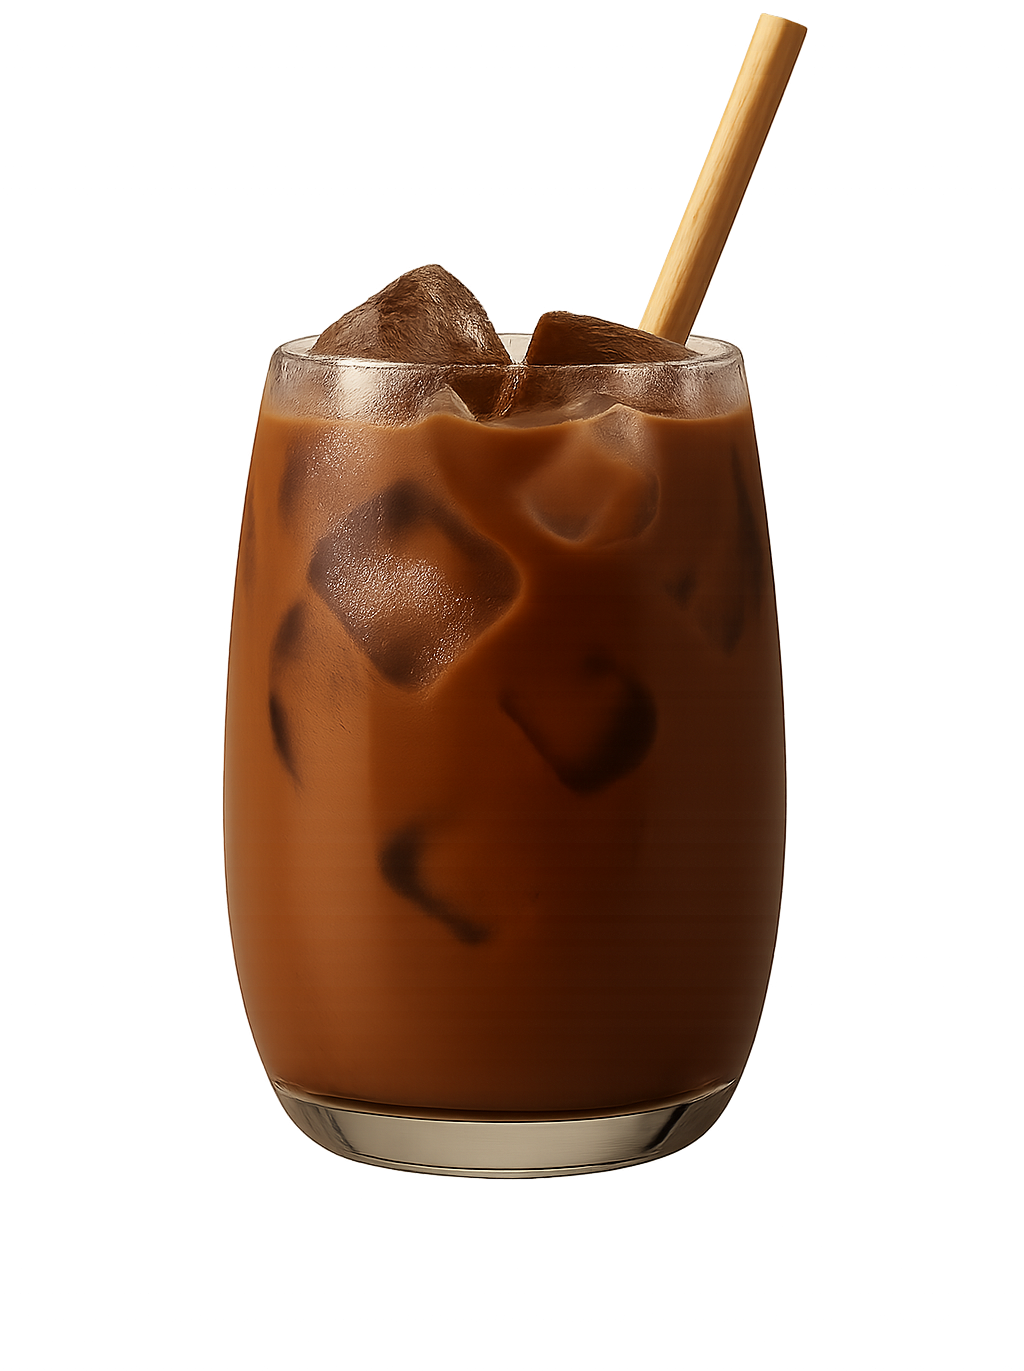
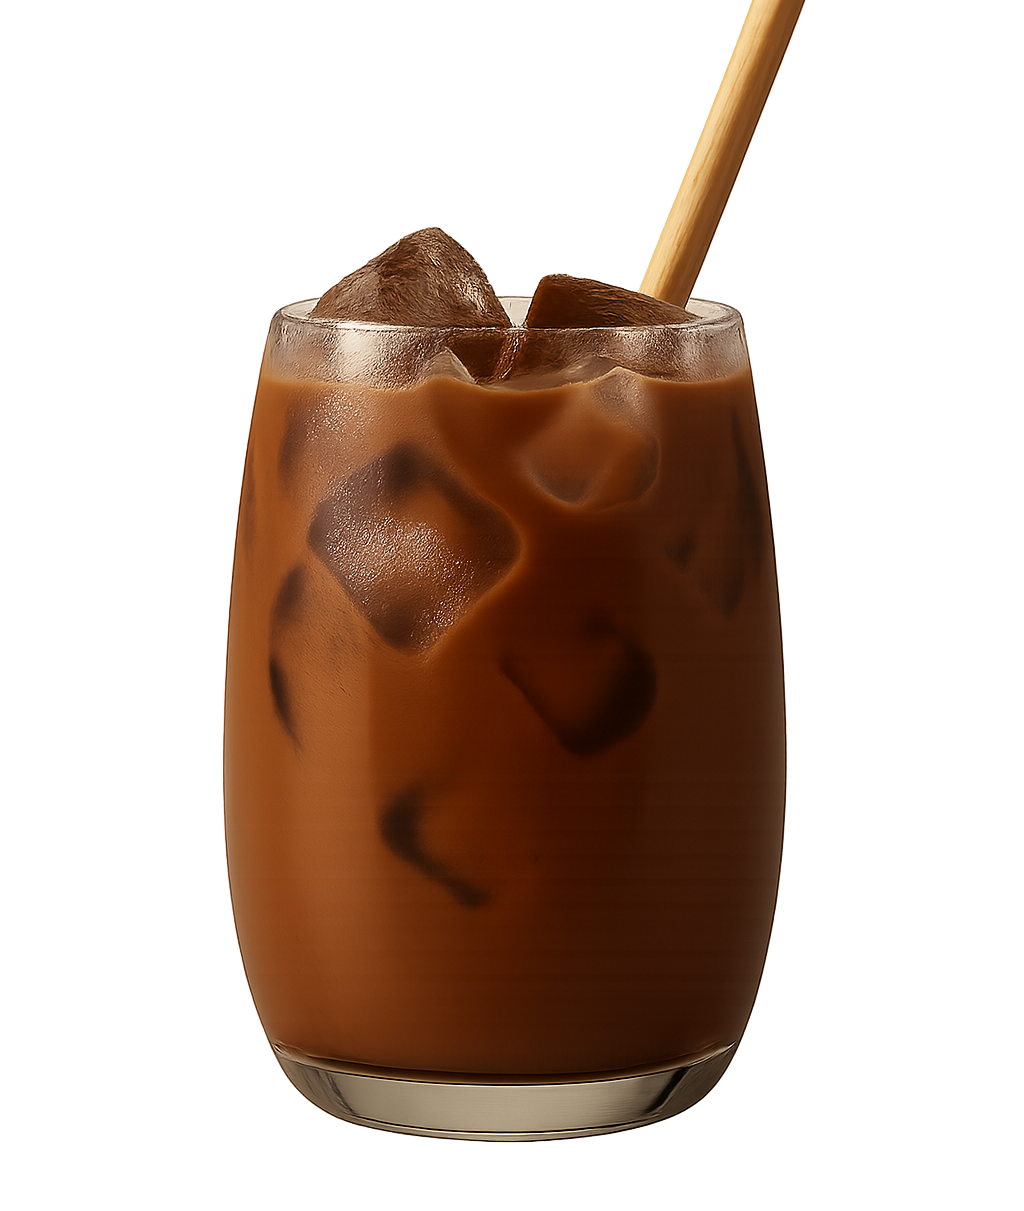
Drink Page Design 60% done

diff --git a/client/src/index.css b/client/src/index.css
@@ -5,28 +5,32 @@
     padding: 0;
     margin: 0;
     font-family: 'Inter', sans-serif;
+    overflow-x: hidden;
 }
+
+
+
+header{
+
+    width: 99vw;
+    height: 100vh;
+    overflow: hidden;
+    flex-wrap: wrap;
+    
+
+}
+
 
 video{
     position: absolute;
-    width: 100vw;
-    height: 100%;
+    width: 100%;
+    height: 100vh;
     object-fit: cover;
     flex-wrap: wrap;
     overflow: hidden;
     z-index: 1;
 
 }
-
-header{
-
-    width: 100%;
-    height: 100vh;
-    
-
-}
-
-
 
 nav{
     margin-left: auto;
@@ -62,12 +66,10 @@ a:hover{
     flex-direction: row;
     justify-content: space-between;
     align-items: center;
-    right: 40px;
+    right: 50px;
     position: absolute;
     top: 25px;
-    text-decoration: none;
-    
-    
+    text-decoration: none; 
 }
 
 #landPageMainDisplay{
@@ -135,3 +137,119 @@ header h1{
     background-color: #9b9c87;
     font-size: 19px;
 }
+
+
+/*DRINK PAGE FROM HERE ON*/
+
+#drinkPage{
+    width: 99vw;
+    height: 100vh;
+    background-image: url('../public/coffeeShopImg.jpg');
+    background-size: cover;
+    background-position: center;
+    background-attachment: fixed;
+    display: flex;
+    flex-direction: column;
+    align-items: center;
+    justify-content: space-evenly;
+
+}
+
+#drinkPage h2{
+    
+    font-size: 50px;
+    color: white;
+    
+}
+
+#drinksMenu{
+    display: flex;
+    justify-content: space-evenly;
+    width: 90%;
+    height: 70vh;
+    
+  
+}
+
+
+.drinksItem{
+    width: 23%;
+    height: 100%;
+    display: flex;
+    flex-direction: column;
+    align-items: center;
+    background-color: rgba(155, 156, 135, 0.81);
+    border-radius: 15px;
+}
+
+
+.drinksItem img{
+    height: 50%;
+    width: auto;
+    margin-top: 40px;
+    margin-bottom: 10px;
+    
+}
+
+.drinksItem h3{
+    color: white;
+}
+
+
+.orderingSection{
+
+    margin-top: 15px;
+    margin-bottom: 15px;
+    height: 10%;
+    width: 70%;
+    min-width: 200px;
+    display: flex;
+    flex-direction: row;
+    justify-content: space-evenly;
+    align-items: center;
+    
+}
+
+.drinksItem p{
+    
+    width: 70%;
+    font-size: 13px;
+    color: white;
+    font-weight: 600;
+}
+
+/*Button Design for Food/Drinks */
+
+.orderingSection button{
+    height: 60%;
+    border: none;
+    background-color: white;
+    width: 30%;
+    transition: 0.2s;
+    font-weight: 600;
+}
+
+
+.orderingSection button:first-child{
+    border-radius: 5px;
+}
+
+.orderingSection button:first-child:hover{
+    background-color: #9b9c87;
+    border-radius: 15px;
+}
+
+.orderingSection button:nth-child(2){
+    border-radius: 5px;
+}
+
+.orderingSection button:nth-child(2):hover{
+    background-color: #9b9c87;
+    border-radius: 15px;
+}
+
+.orderingSection button:nth-child(3){
+    width: 35%;
+}
+
+

diff --git a/client/src/drinkPage.jsx b/client/src/drinkPage.jsx
@@ -1,0 +1,62 @@
+import React from "react";
+import 'primeicons/primeicons.css';
+        
+
+function drinkPage(){
+    return(
+        <section id="drinkPage">
+            <h2>DRINKS</h2>
+            <div id="drinksMenu"> 
+                <div className="drinksItem">
+                    <img src="../public/coffee pic 2.png" alt="" />
+                    <h3 id="drinkItemName">Iced Latte</h3> 
+                    <div className="orderingSection">
+                        <button id="icedLatteAddBtn">Add</button>
+                        <button id="icedLatteRemoveBtn">Remove</button>
+                        <button id="icedLatteQuantity">Quantity: 1</button>
+                    </div>
+                    <p>A refreshing iced latte made with 100% Arabica beans, blending smooth espresso and creamy milk for a naturally sweet, chilled coffee experience.</p>
+                </div>
+                <div className="drinksItem">
+                    <img src="../public/chocolate drink.png" alt="" />
+                    <h3 id="drinkItemName">Iced Chocolate</h3> 
+                    <div className="orderingSection">
+                        <button id="icedChocolateAddBtn">Add</button>
+                        <button id="icedChocolateRemoveBtn">Remove</button>
+                        <button id="icedChocolateQuantity">Quantity: 1</button>
+                    </div>
+                    <p>A refreshing iced latte made with 100% Arabica beans, blending smooth espresso and creamy milk for a naturally sweet, chilled coffee experience.</p>
+                </div>
+                <div className="drinksItem">
+                    <img src="../public/coffee pic 2.png" alt="" />
+                    <h3 id="drinkItemName">Iced Cappuccino</h3> 
+                    <div className="orderingSection">
+                        <button id="iceLatteAddBtn">Add</button>
+                        <button id="iceLatteRemoveBtn">Remove</button>
+                        <button id="iceLatteQuantity">Quantity: 1</button>
+                    </div>
+                    <p>A refreshing iced latte made with 100% Arabica beans, blending smooth espresso and creamy milk for a naturally sweet, chilled coffee experience.</p>
+                </div>
+                <div className="drinksItem">
+                    <img src="../public/coffee pic 2.png" alt="" />
+                    <h3 id="drinkItemName">Iced Latte</h3> 
+                    <div className="orderingSection">
+                        <button id="iceLatteAddBtn">Add</button>
+                        <button id="iceLatteRemoveBtn">Remove</button>
+                        <button id="iceLatteQuantity">Quantity: 1</button>
+                    </div>
+                    <p>A refreshing iced latte made with 100% Arabica beans, blending smooth espresso and creamy milk for a naturally sweet, chilled coffee experience.</p>
+                </div>
+
+                
+
+
+
+            </div>
+
+        </section>
+
+    )
+}
+
+export default drinkPage;

diff --git a/client/src/App.jsx b/client/src/App.jsx
@@ -3,6 +3,9 @@ import reactLogo from './assets/react.svg'
 import viteLogo from '/vite.svg'
 import './App.css'
 import LandingPage from './landingPage'
+import DrinkPage from './drinkPage'
+
+
 
 function App() {
   const [count, setCount] = useState(0)
@@ -10,6 +13,8 @@ function App() {
   return (
     <>
       <LandingPage/>
+      <DrinkPage/>
+      
     </>
   )
 }

diff --git a/client/src/landingPage.jsx b/client/src/landingPage.jsx
@@ -18,7 +18,7 @@ function LandingPage(){
                     <a href="">CART</a>
                     <a href="">SIGN UP</a>
                     <a href="">LOGIN</a>
-                </div>
+            </div>
             <div id="landPageMainDisplay">
                 <div id="introductionContainer">
                     <h1>195°F</h1>